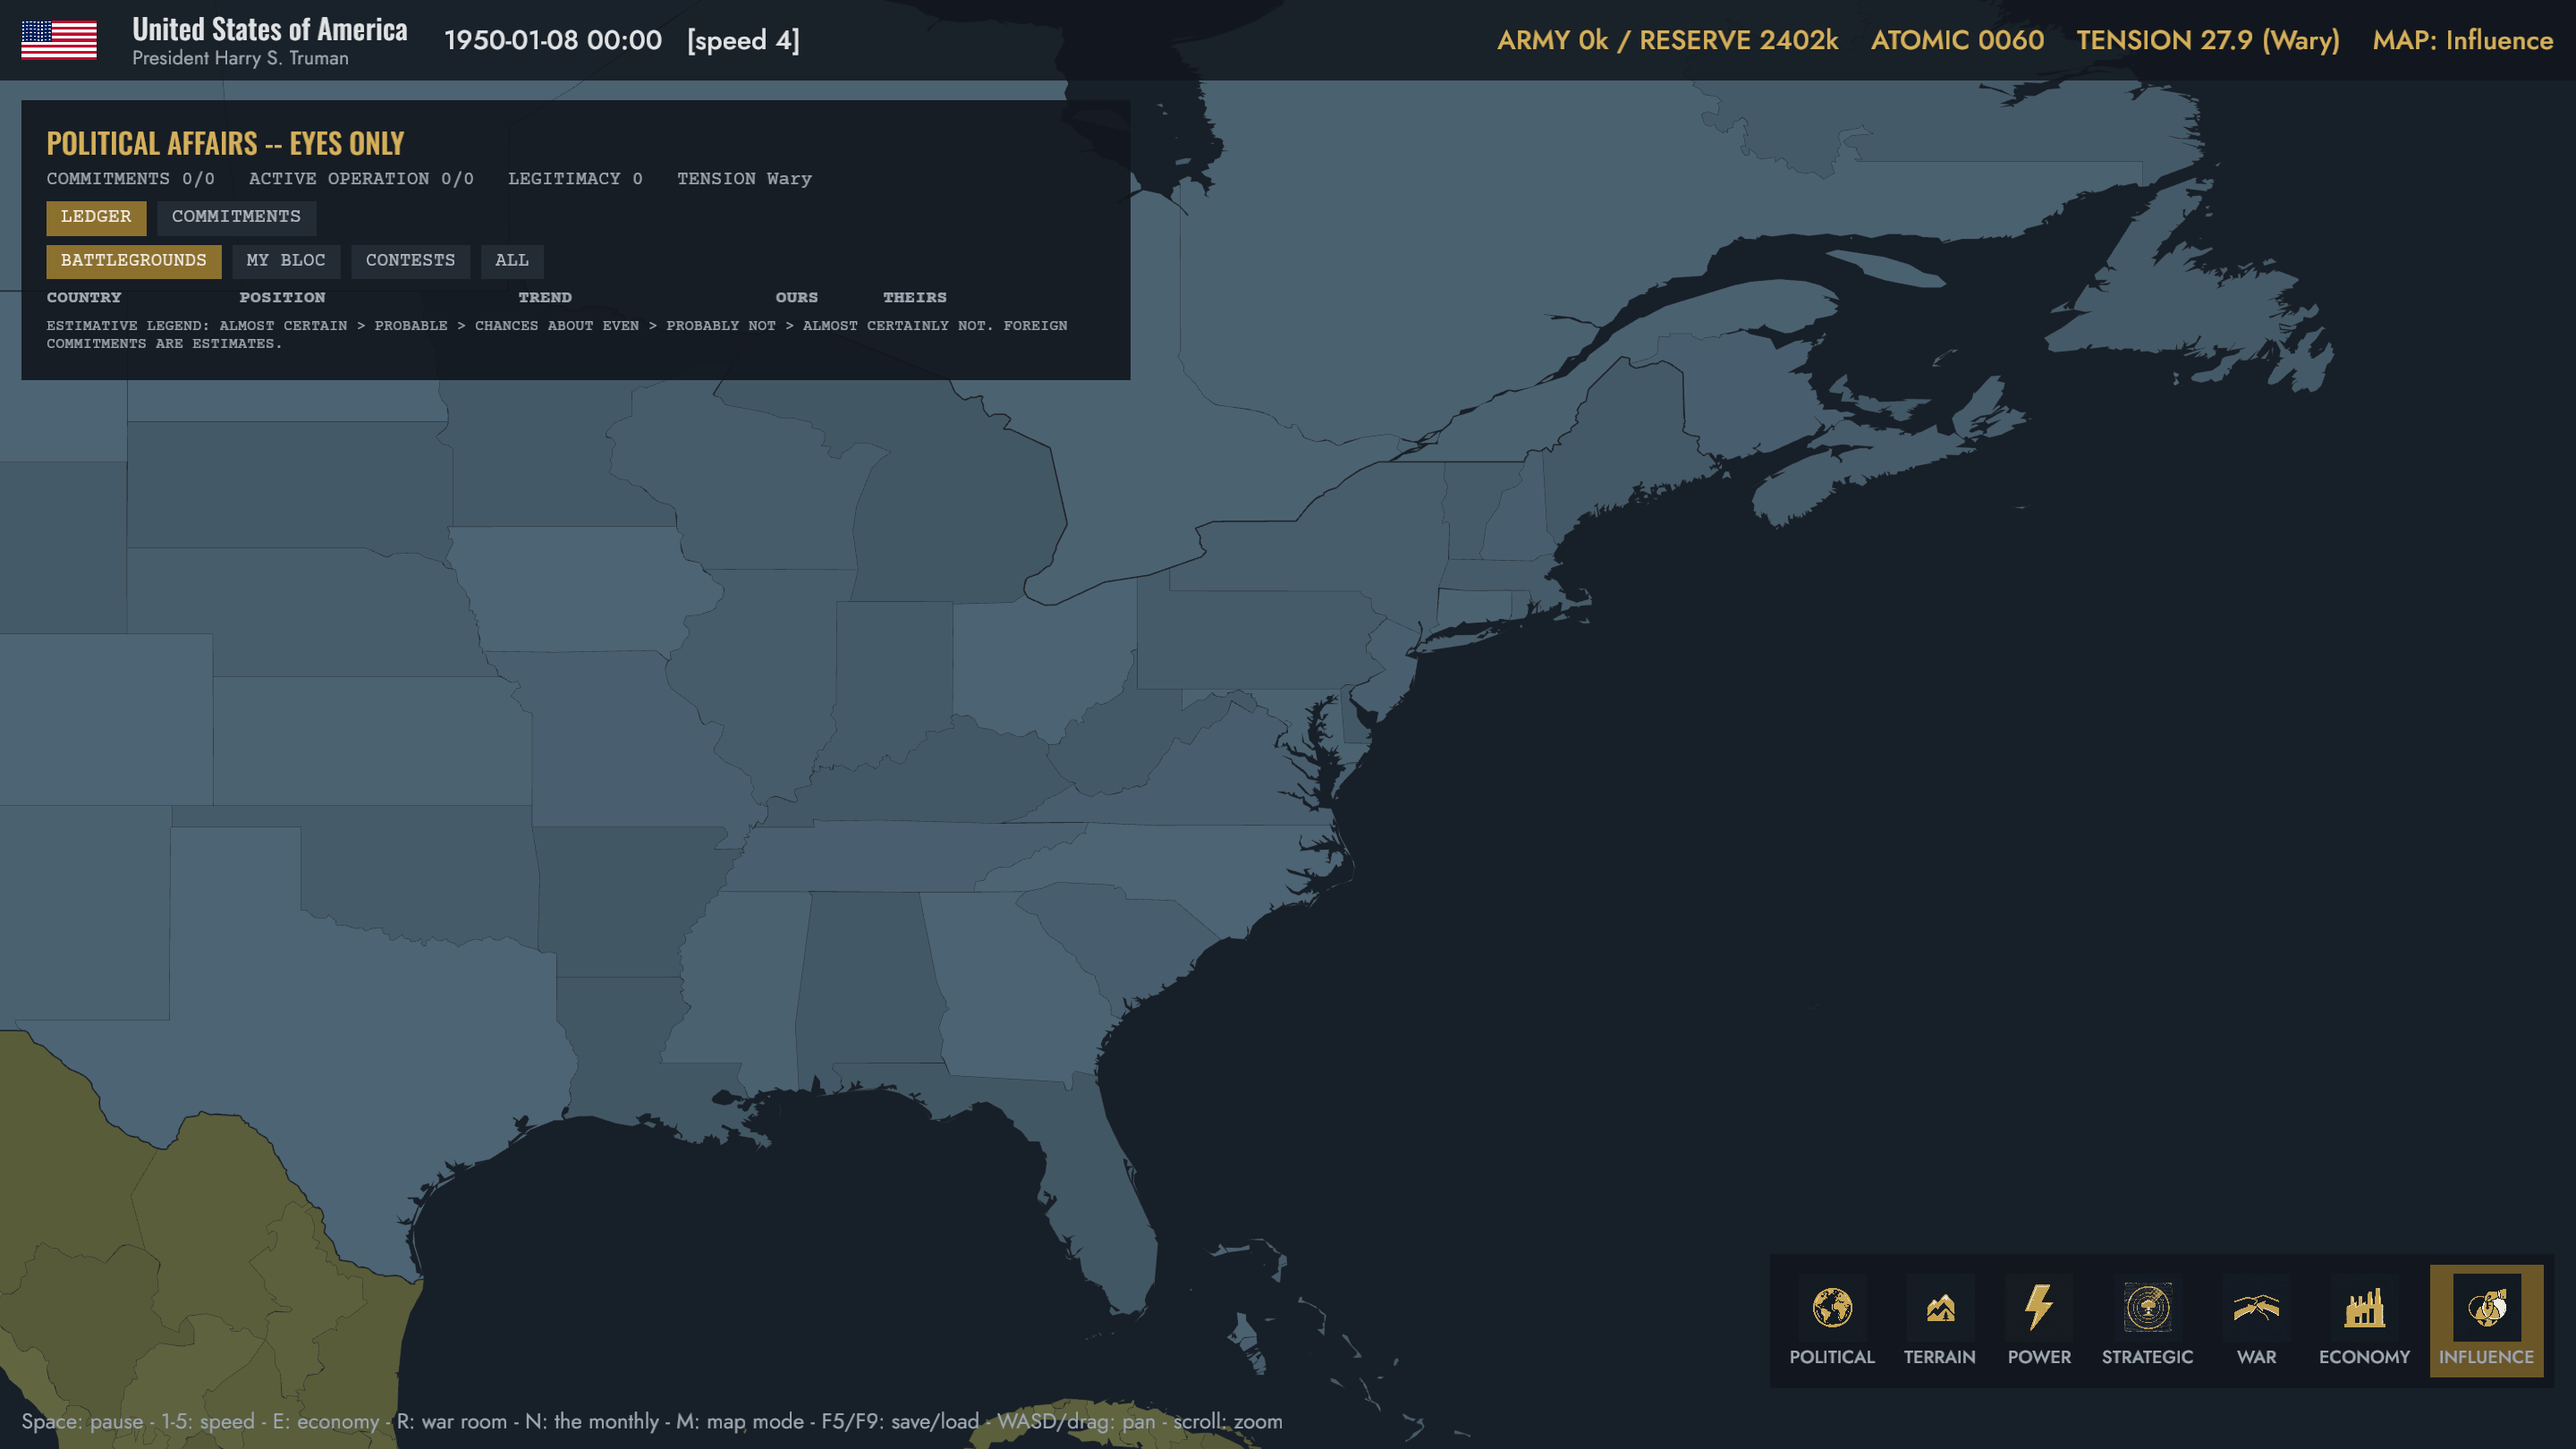
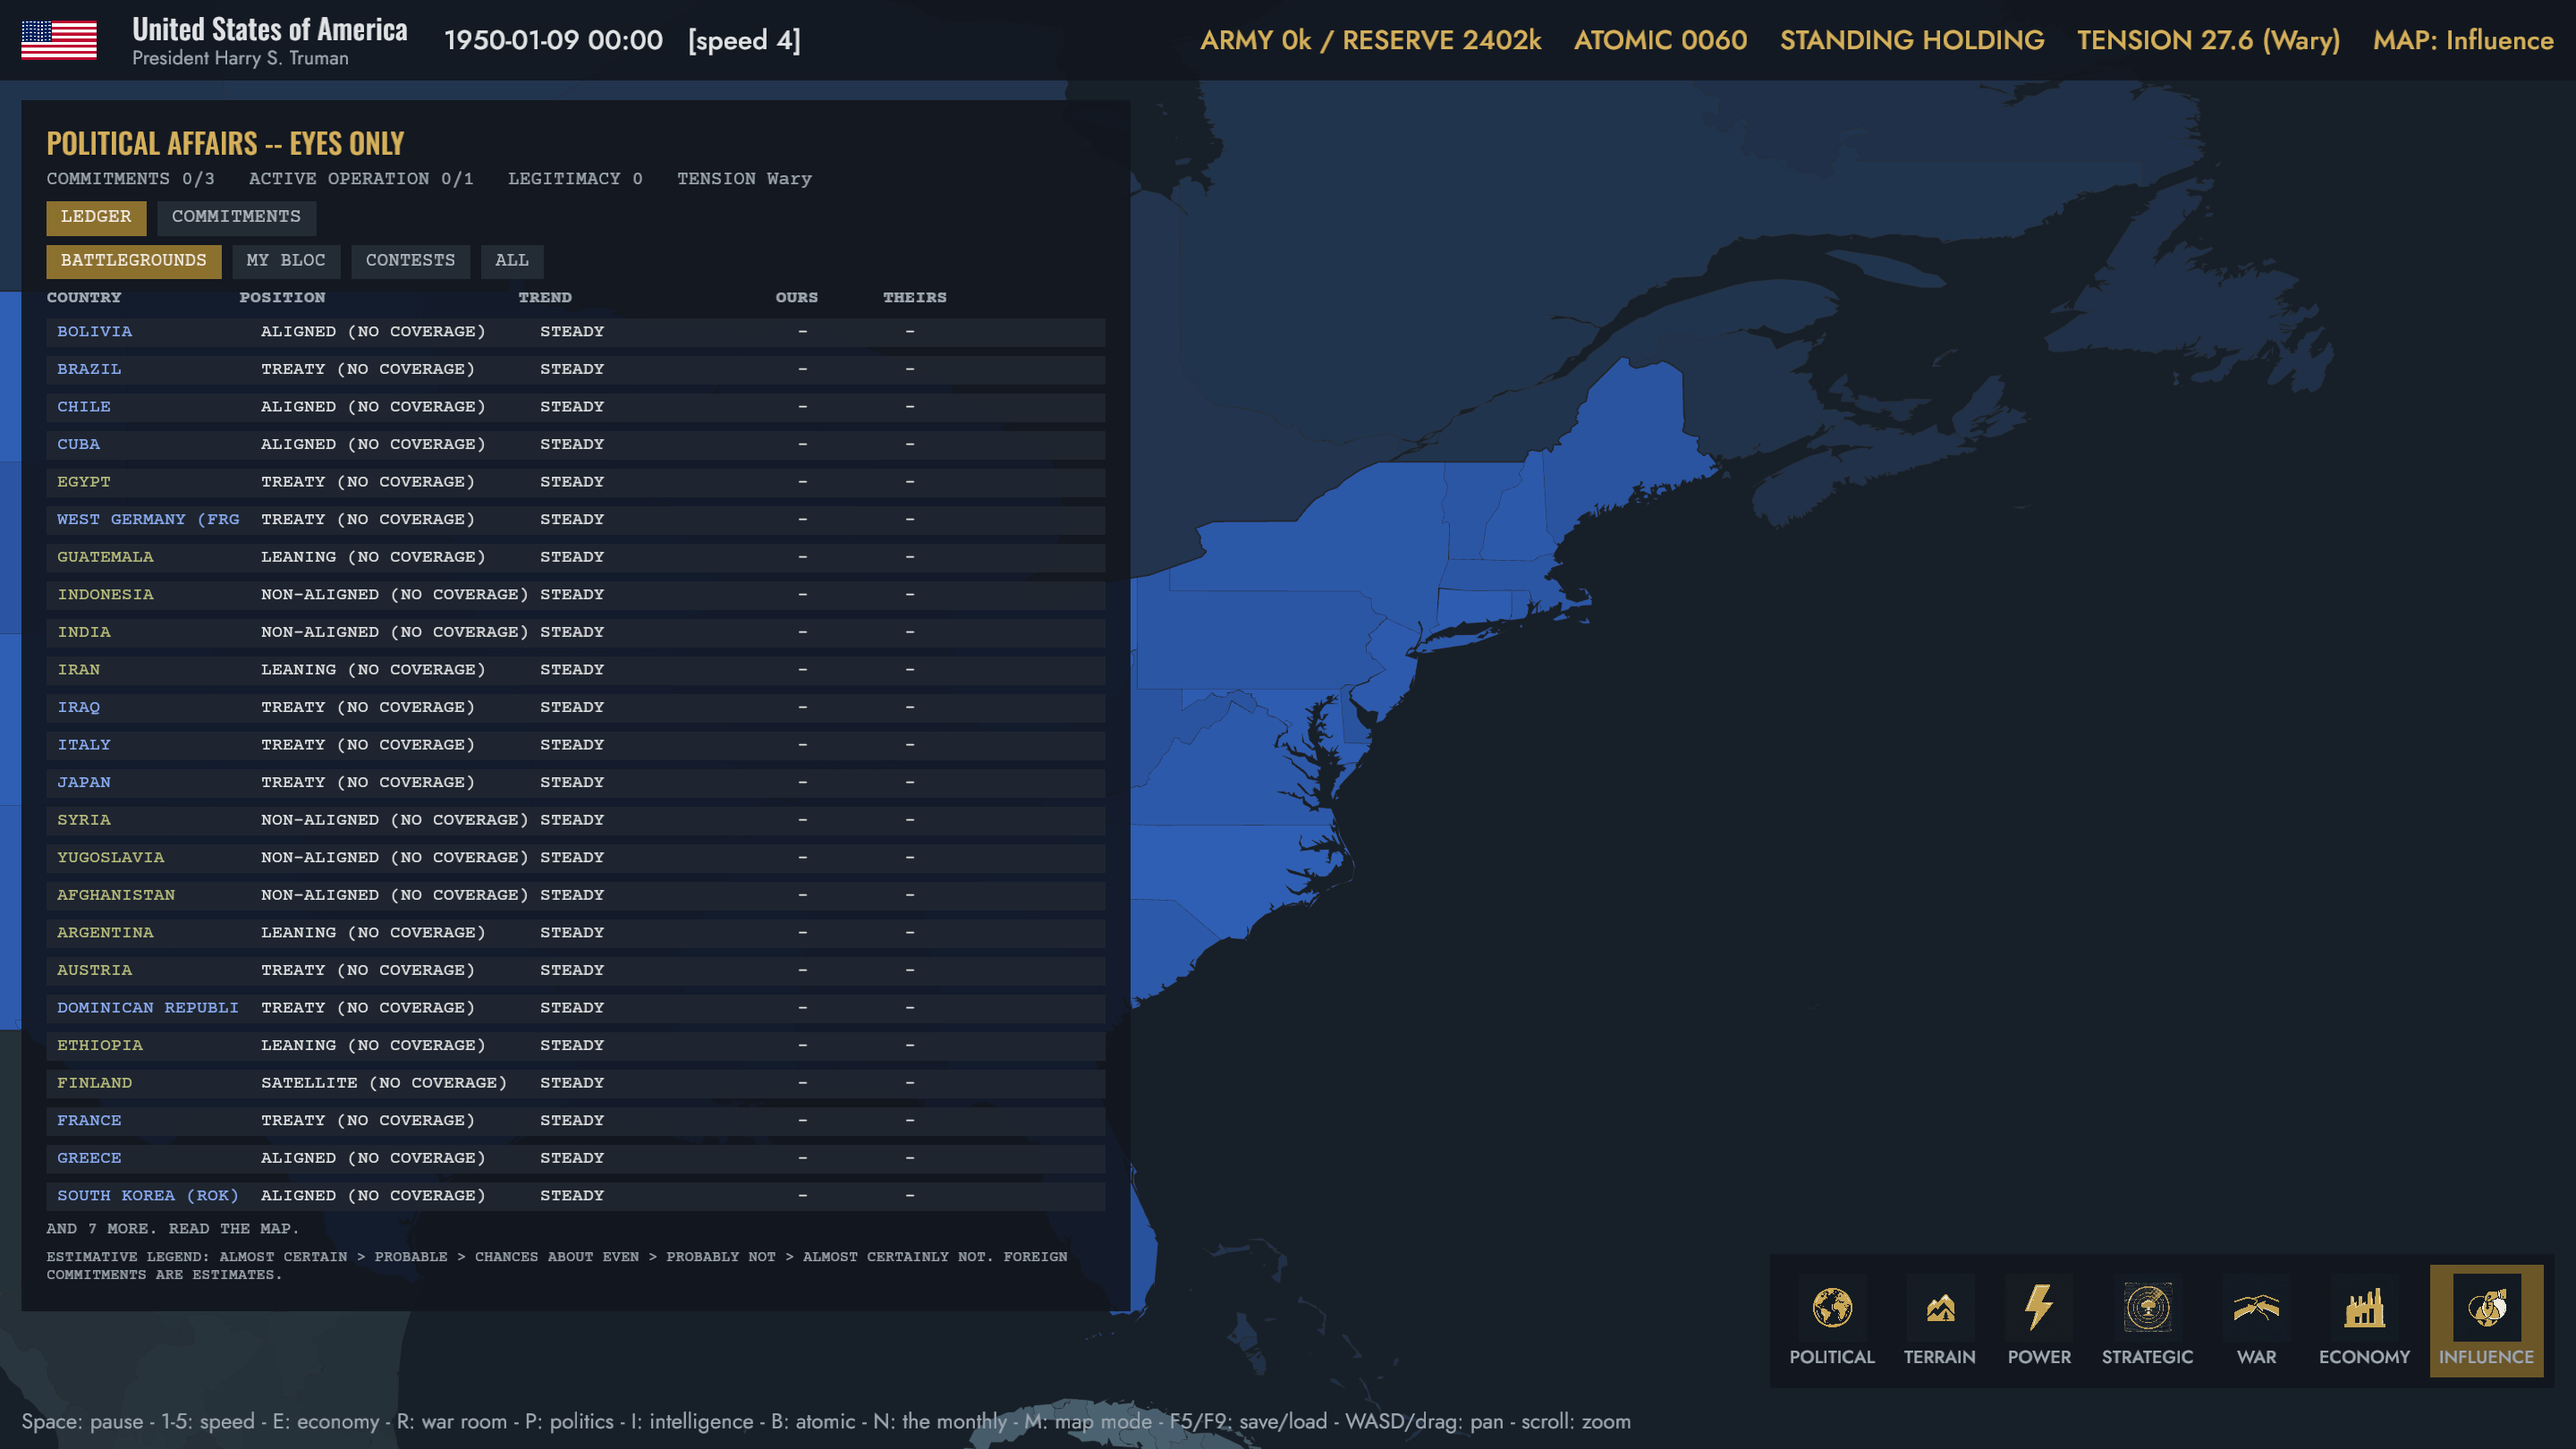
Site screenshots for influence and scoring; locked-neutral depth label; story cap on reckoning months; 1955 save fixture
Claude-Session: https://claude.ai/code/session_01JN5eAdzEmyhxc6gFJviDmW

diff --git a/crates/ugs-sim/src/score.rs b/crates/ugs-sim/src/score.rs
@@ -1237,6 +1237,26 @@ mod tests {
     }
 
     #[test]
+    #[ignore = "dev helper: writes saves/reckoning-1955.ron"]
+    fn make_reckoning_save() {
+        let mut app = boot(1950);
+        app.world_mut()
+            .resource_mut::<PendingCommands>()
+            .push(SimCommand::SetPlayerCountry {
+                country: Some(tag("USA")),
+            });
+        run_ticks(&mut app, 24 * (365 * 5 + 2)); // 1955-01-03: the first reckoning is on the record
+        let save = crate::savegame::SaveGame::capture(app.world(), Some("USA".into()));
+        let dir = Path::new(env!("CARGO_MANIFEST_DIR")).join("../../saves");
+        std::fs::create_dir_all(&dir).unwrap();
+        std::fs::write(
+            dir.join("reckoning-1955.ron"),
+            ron::to_string(&save).unwrap(),
+        )
+        .unwrap();
+    }
+
+    #[test]
     fn the_ledger_is_deterministic() {
         fn run() -> u64 {
             let mut app = boot(1950);

diff --git a/crates/ugs-sim/src/influence.rs b/crates/ugs-sim/src/influence.rs
@@ -337,9 +337,12 @@ impl Influence {
 
     /// Display depth for the current position (locks read as treaty).
     pub fn depth_label(&self, tag: &CountryTag, tick: u64) -> &'static str {
-        let p = self.position_of(tag).abs();
-        if self.is_locked(tag, tick) || p >= tuning::DEPTH_TREATY {
-            if self.position_of(tag) < 0 {
+        let pos = self.position_of(tag);
+        let p = pos.abs();
+        if self.is_locked(tag, tick) && p < tuning::BAND_ENTER {
+            "LOCKED NEUTRAL"
+        } else if self.is_locked(tag, tick) || p >= tuning::DEPTH_TREATY {
+            if pos < 0 {
                 "SATELLITE"
             } else {
                 "TREATY"

diff --git a/crates/ugs-app/src/paper_ui.rs b/crates/ugs-app/src/paper_ui.rs
@@ -241,7 +241,15 @@ fn refresh_paper(
         .into_iter()
         .map(|(_, t, b)| (t, b))
         .collect();
-    stories.truncate(4);
+    // A reckoning page or the final edition takes the lead column.
+    let score_page_showing = matches!(
+        ledger.end,
+        Some(ugs_sim::score::CampaignEnd::Reckoning { .. })
+    ) || ledger
+        .eras
+        .last()
+        .is_some_and(|e| clock.tick.saturating_sub(e.tick) <= 365 * 24);
+    stories.truncate(if score_page_showing { 2 } else { 4 });
     let more_stories = fired
         .fired_ticks
         .values()

diff --git a/docs/index.md b/docs/index.md
@@ -122,6 +122,9 @@ and the final edition of 1970 prints WON, HELD or LOST beside what
 your intelligence believed. Break the taboo and the best you can do
 is COSTLY. End the world and there is no verdict for anyone.
 
+![The 1955 reckoning in the monthly paper](media/reckoning-1955.png)
+![The founding edition: how the century is scored](media/paper-founding-1950.png)
+
 ![The war room's theater directives, mid-war](media/war-room-theaters.png)
 ![The forces ledger: stockpile, upkeep, named divisions](media/war-room-forces.png)
 

diff --git a/CLAUDE.md b/CLAUDE.md
@@ -132,7 +132,9 @@ finishing any feature:
 - `UGS_LOAD=path.ron` — auto-load a save on the first in-game frame
   (adopts the save's player nation). `saves/war-jul-1950.ron` is a
   mid-Korean-War fixture (regenerate via the ignored `make_midwar_save`
-  test in `crates/ugs-sim/src/events.rs`).
+  test in `crates/ugs-sim/src/events.rs`); `saves/reckoning-1955.ron`
+  boots as the USA two days after the first era reckoning (the ignored
+  `make_reckoning_save` test in `crates/ugs-sim/src/score.rs`).
 
 ## Conventions
 
